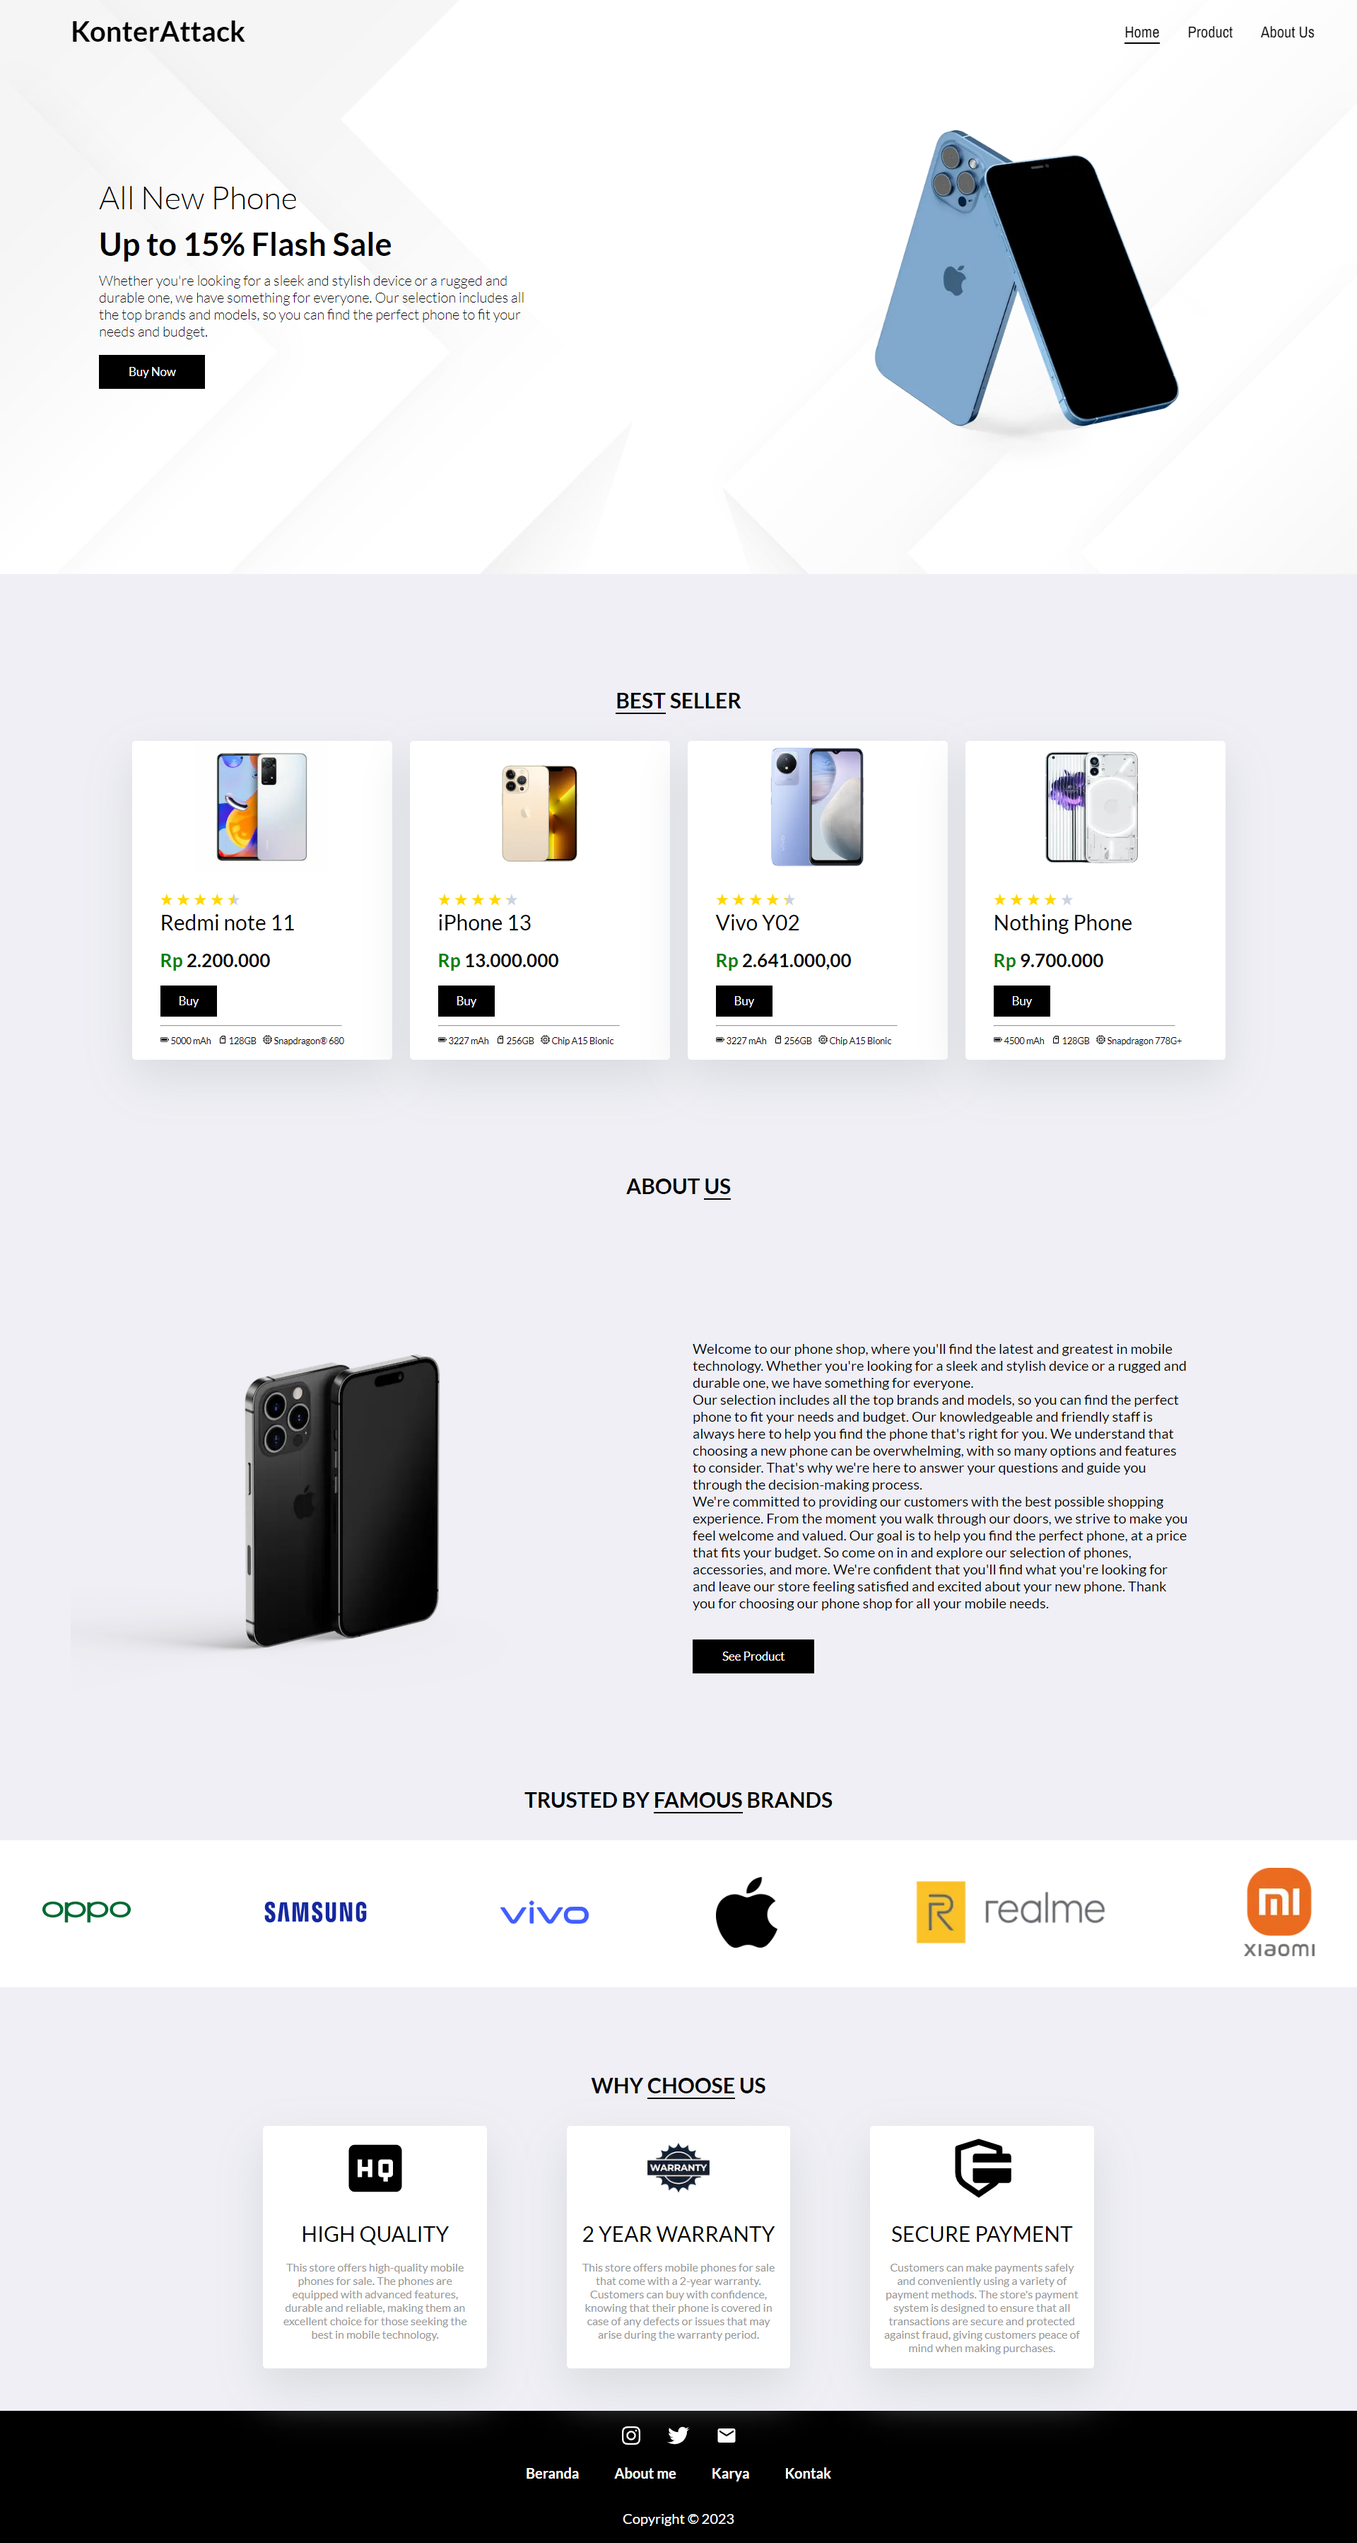
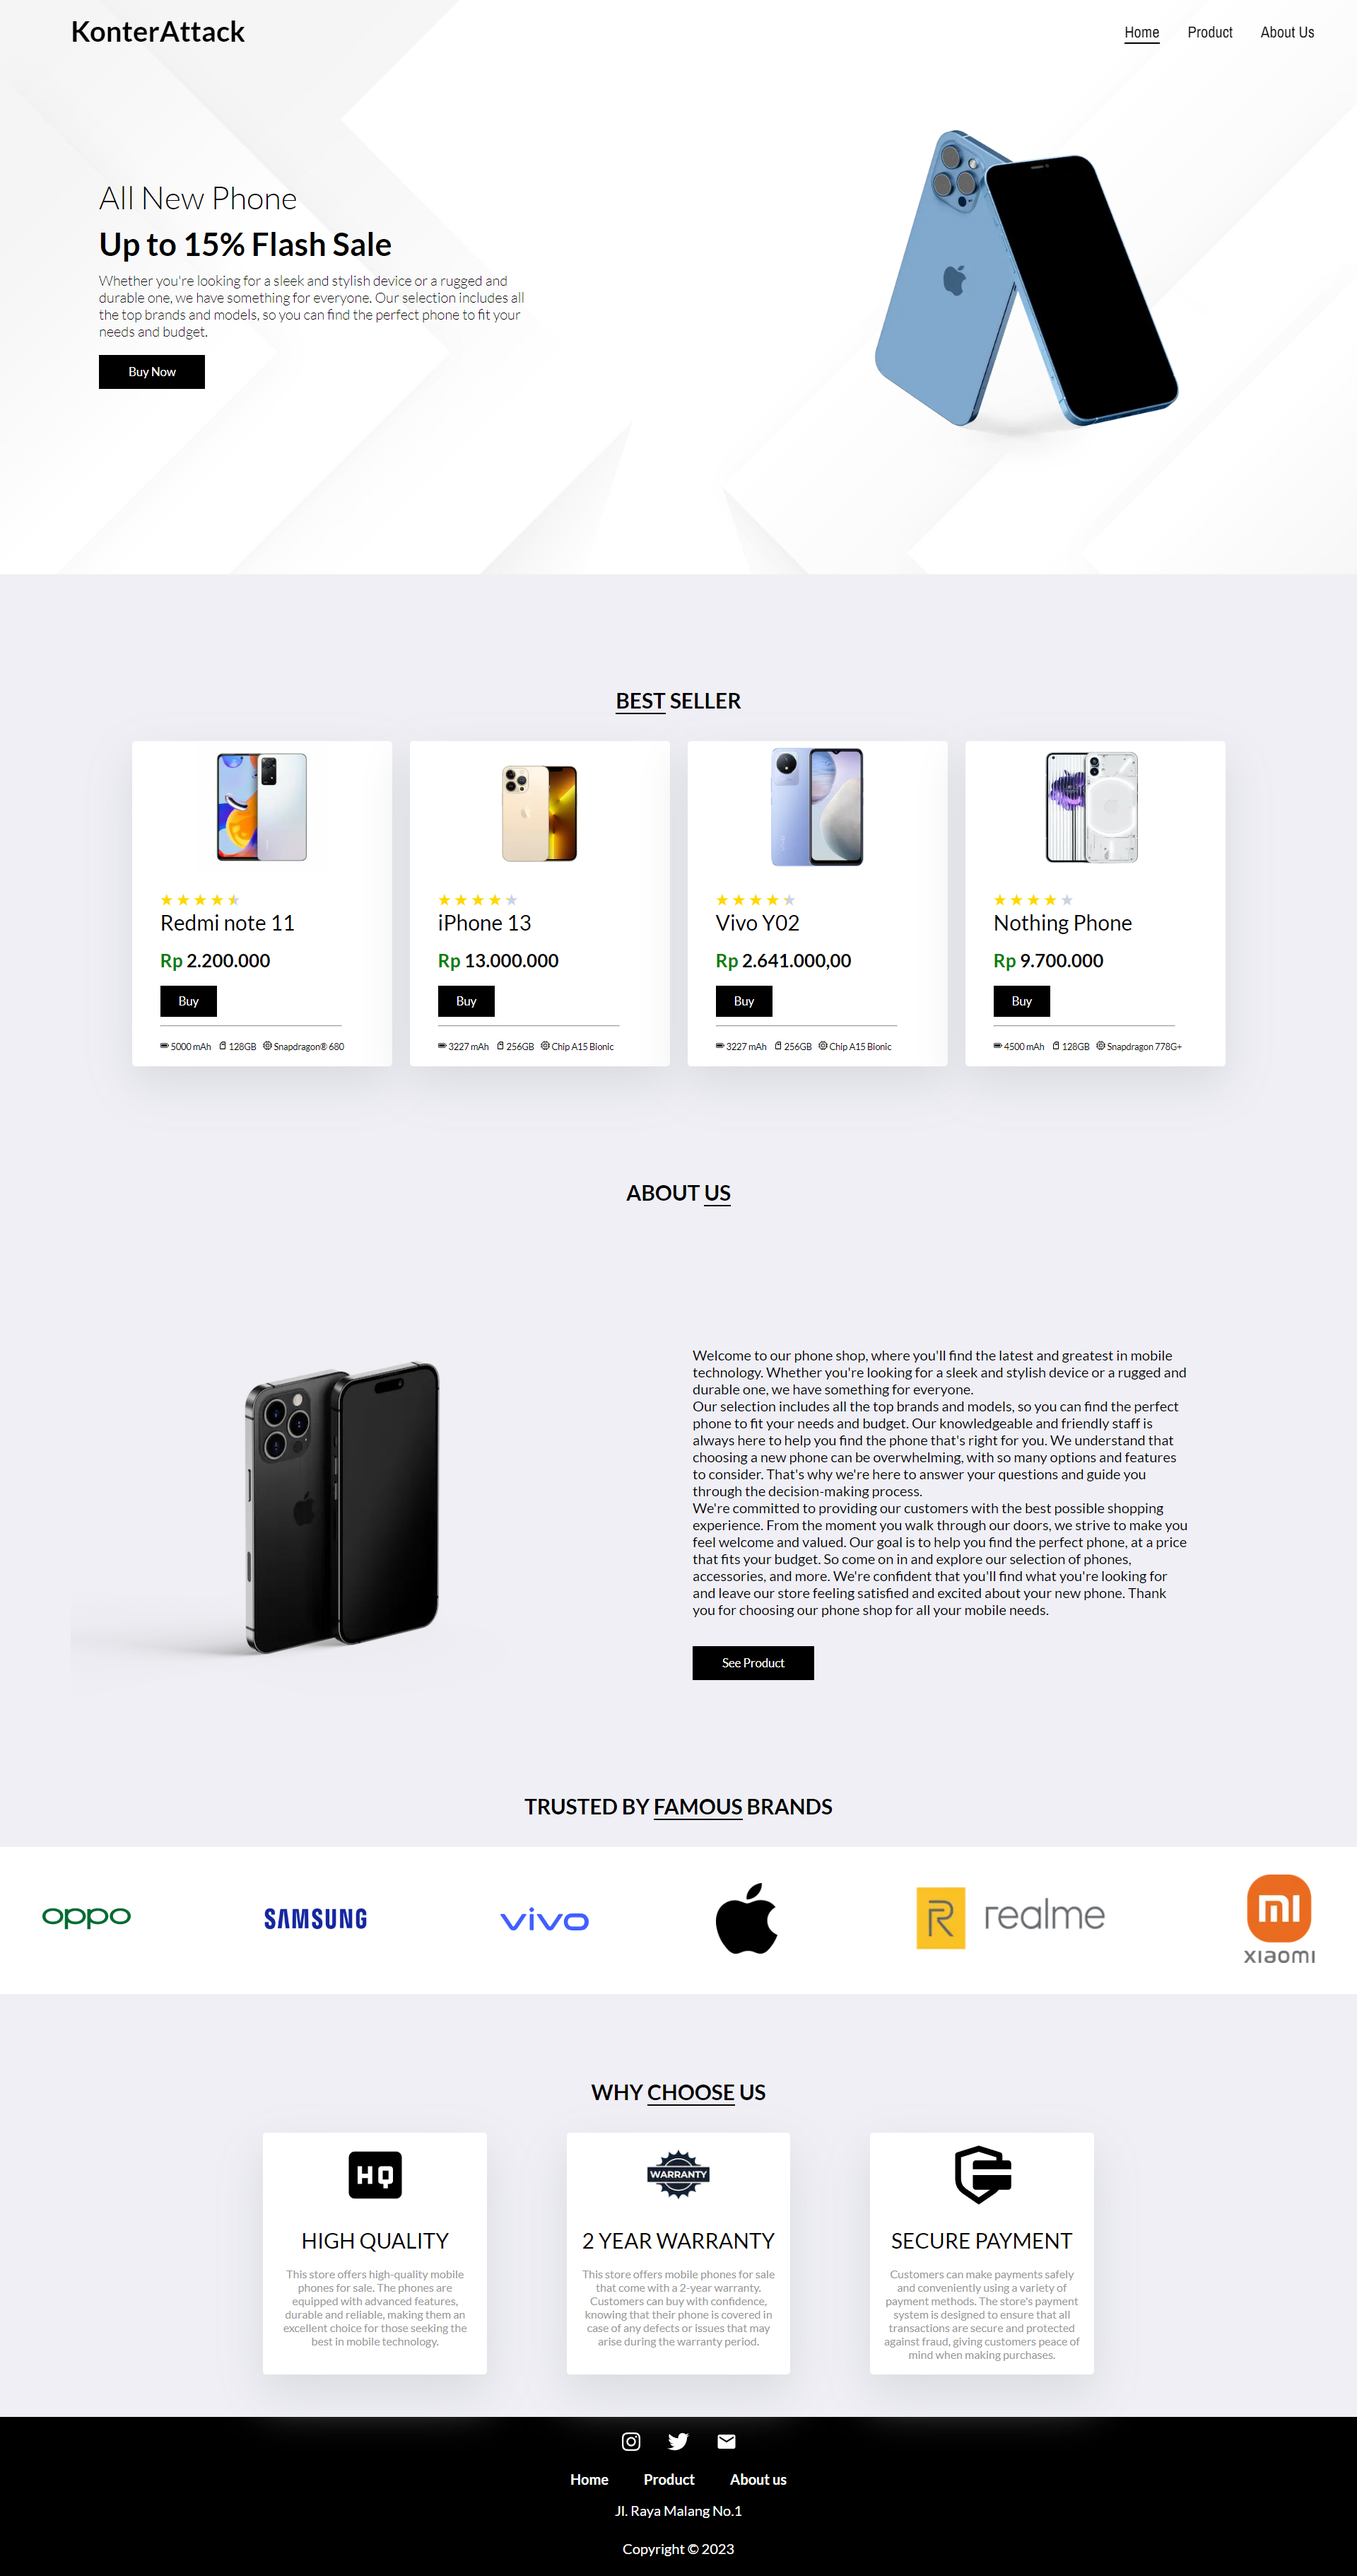
add address in footer

diff --git a/component/Footer.jsx b/component/Footer.jsx
@@ -28,6 +28,7 @@ const Footer = () => {
               <MdEmail />
             </Link>
           </div>
+      
         </div>
 
         <div className={styles.nav_footer}>
@@ -46,6 +47,9 @@ const Footer = () => {
               About us
             </Link>
           </h4>
+        </div>
+        <div className={styles.address}>
+        Jl. Raya Malang No.1
         </div>
         <div className={styles.copyright}>Copyright © {year}</div>
       </div>

diff --git a/styles/footer.module.css b/styles/footer.module.css
@@ -1,7 +1,7 @@
 .footer{
     margin: 3rem  0 0 0;
     width: 100%;
-    height: 150px;
+    height: 180px;
     background-color: black;
     color: white;
     font-family: var(--font-lato);
@@ -33,7 +33,13 @@
 .copyright{
     text-align: center;
     color: white;
-    margin: 2rem 0 0 0;
+    margin: 1.5rem 0 0 0;
+}
+
+.address{
+    text-align: center;
+    font-family: var(--font-lato);
+    margin-top: 1rem;
 }
 
 @media (max-width: 600px) {
